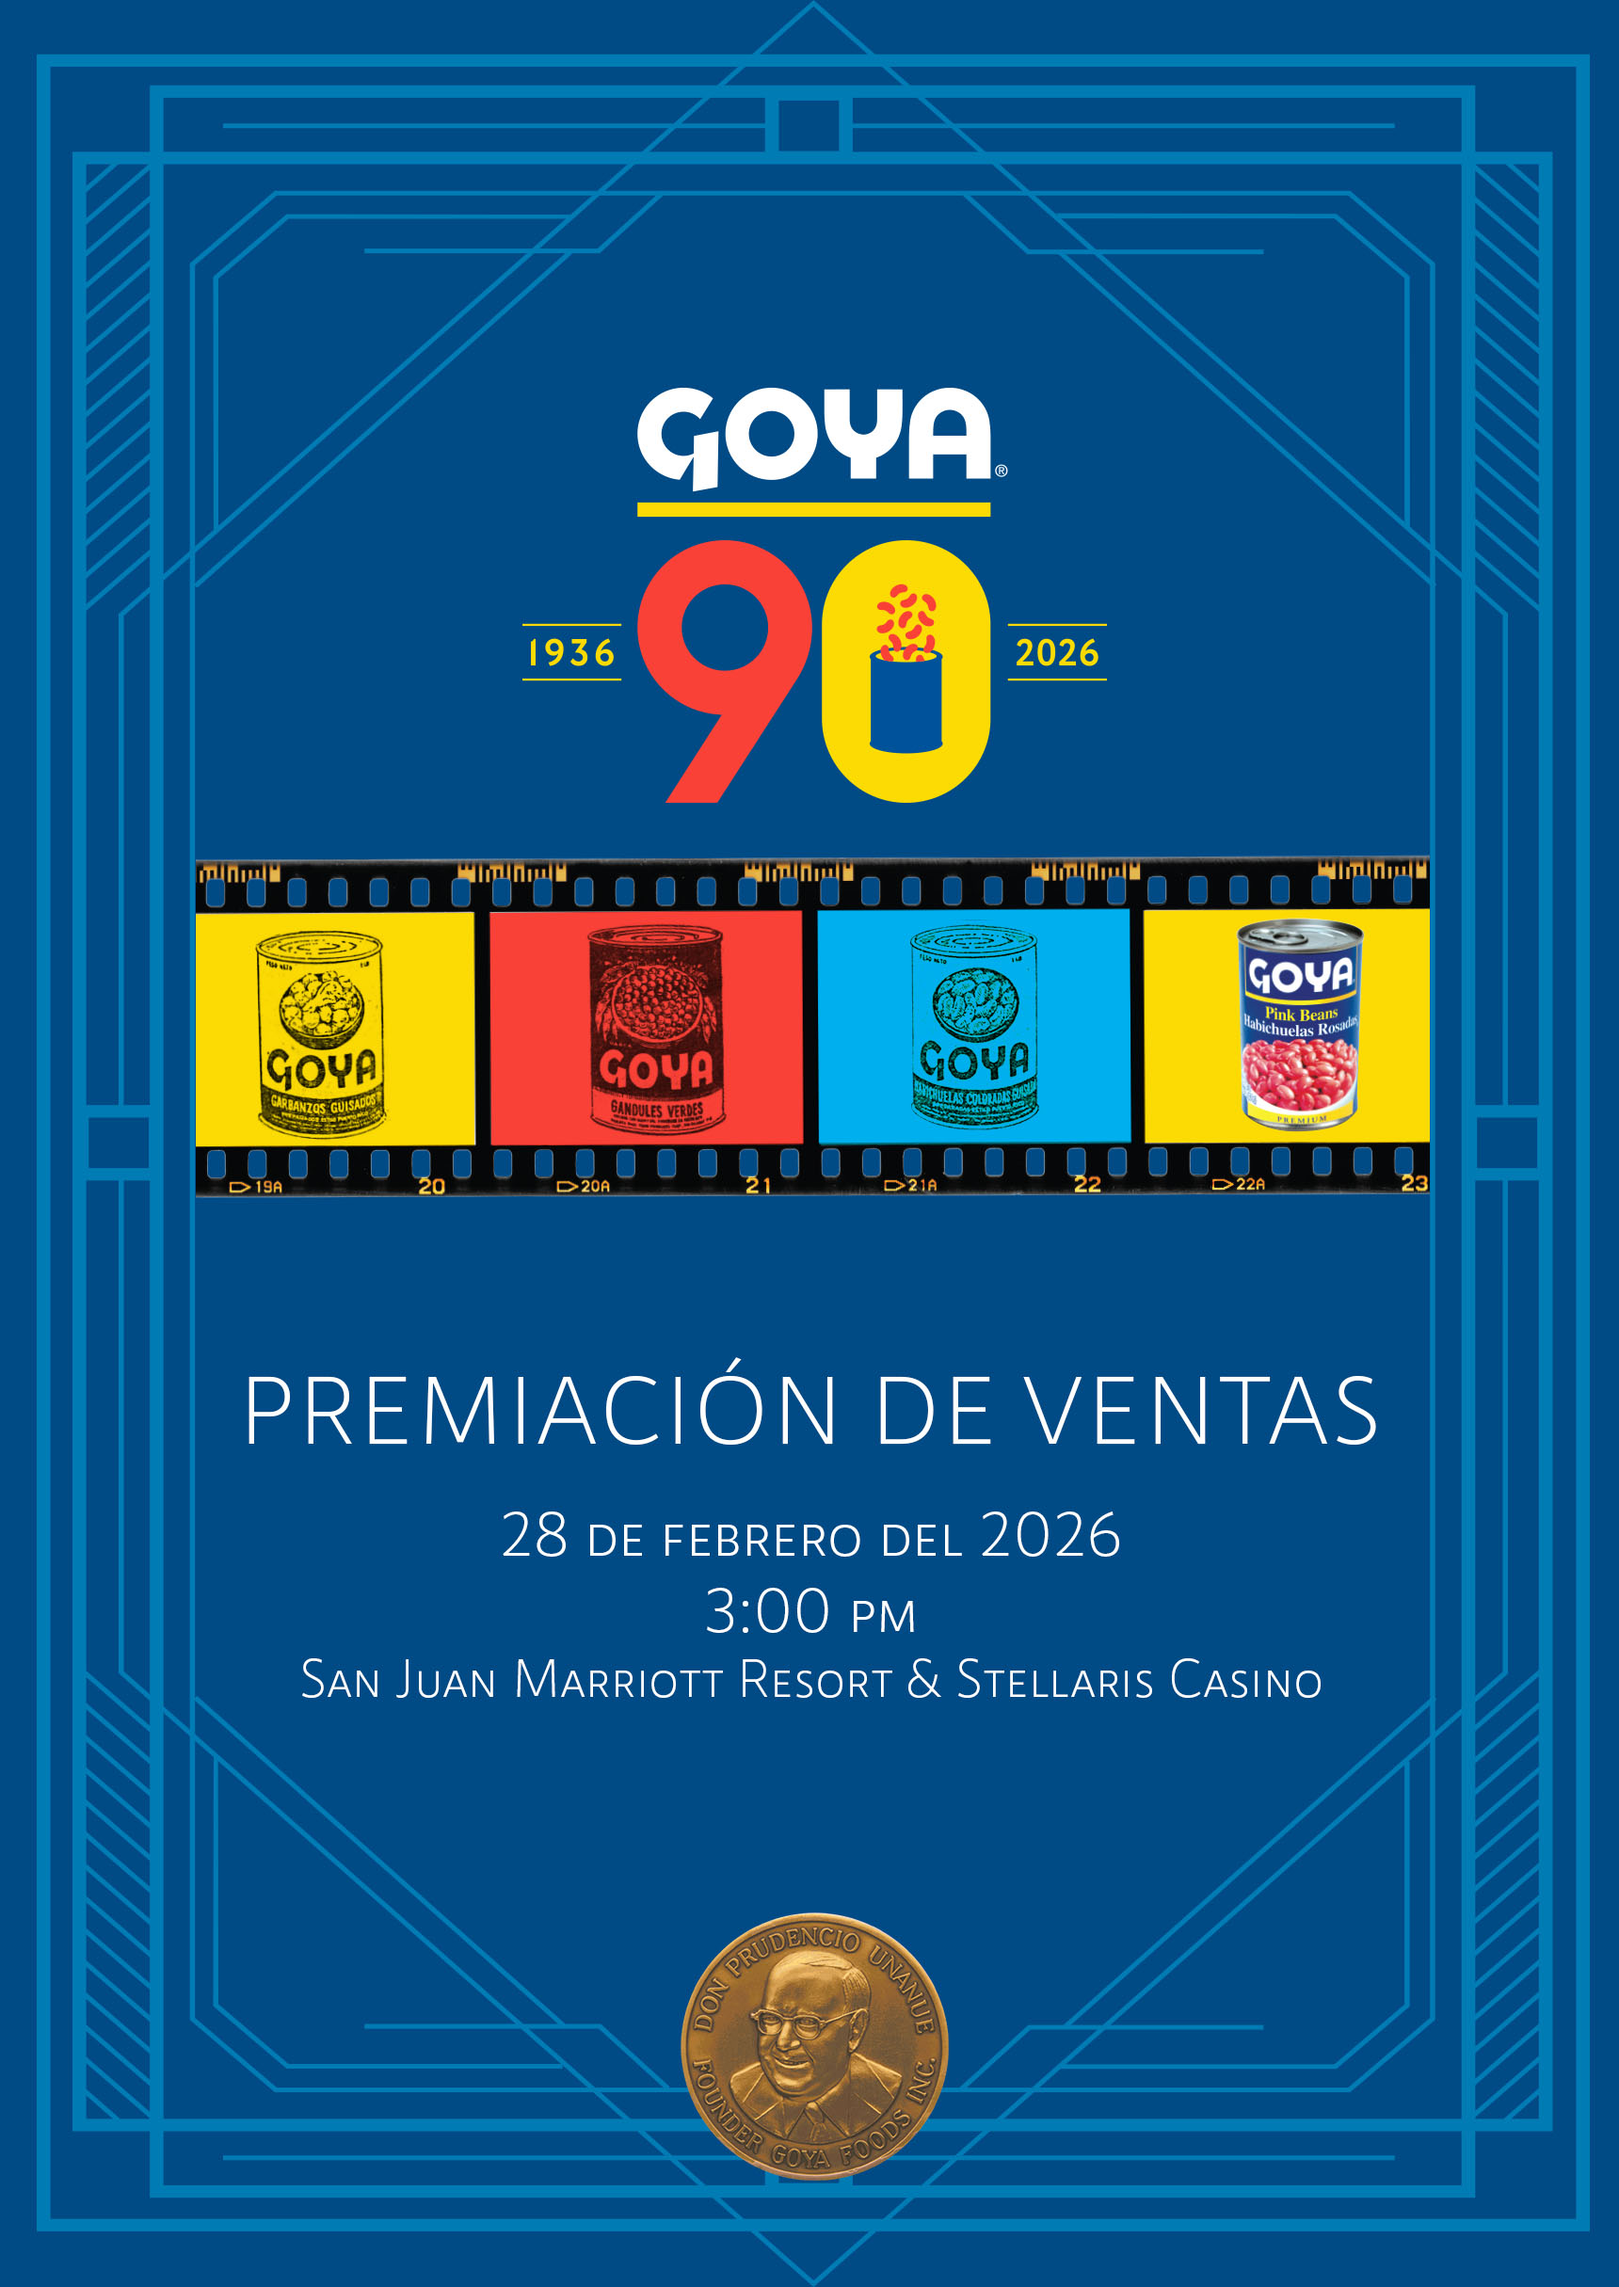
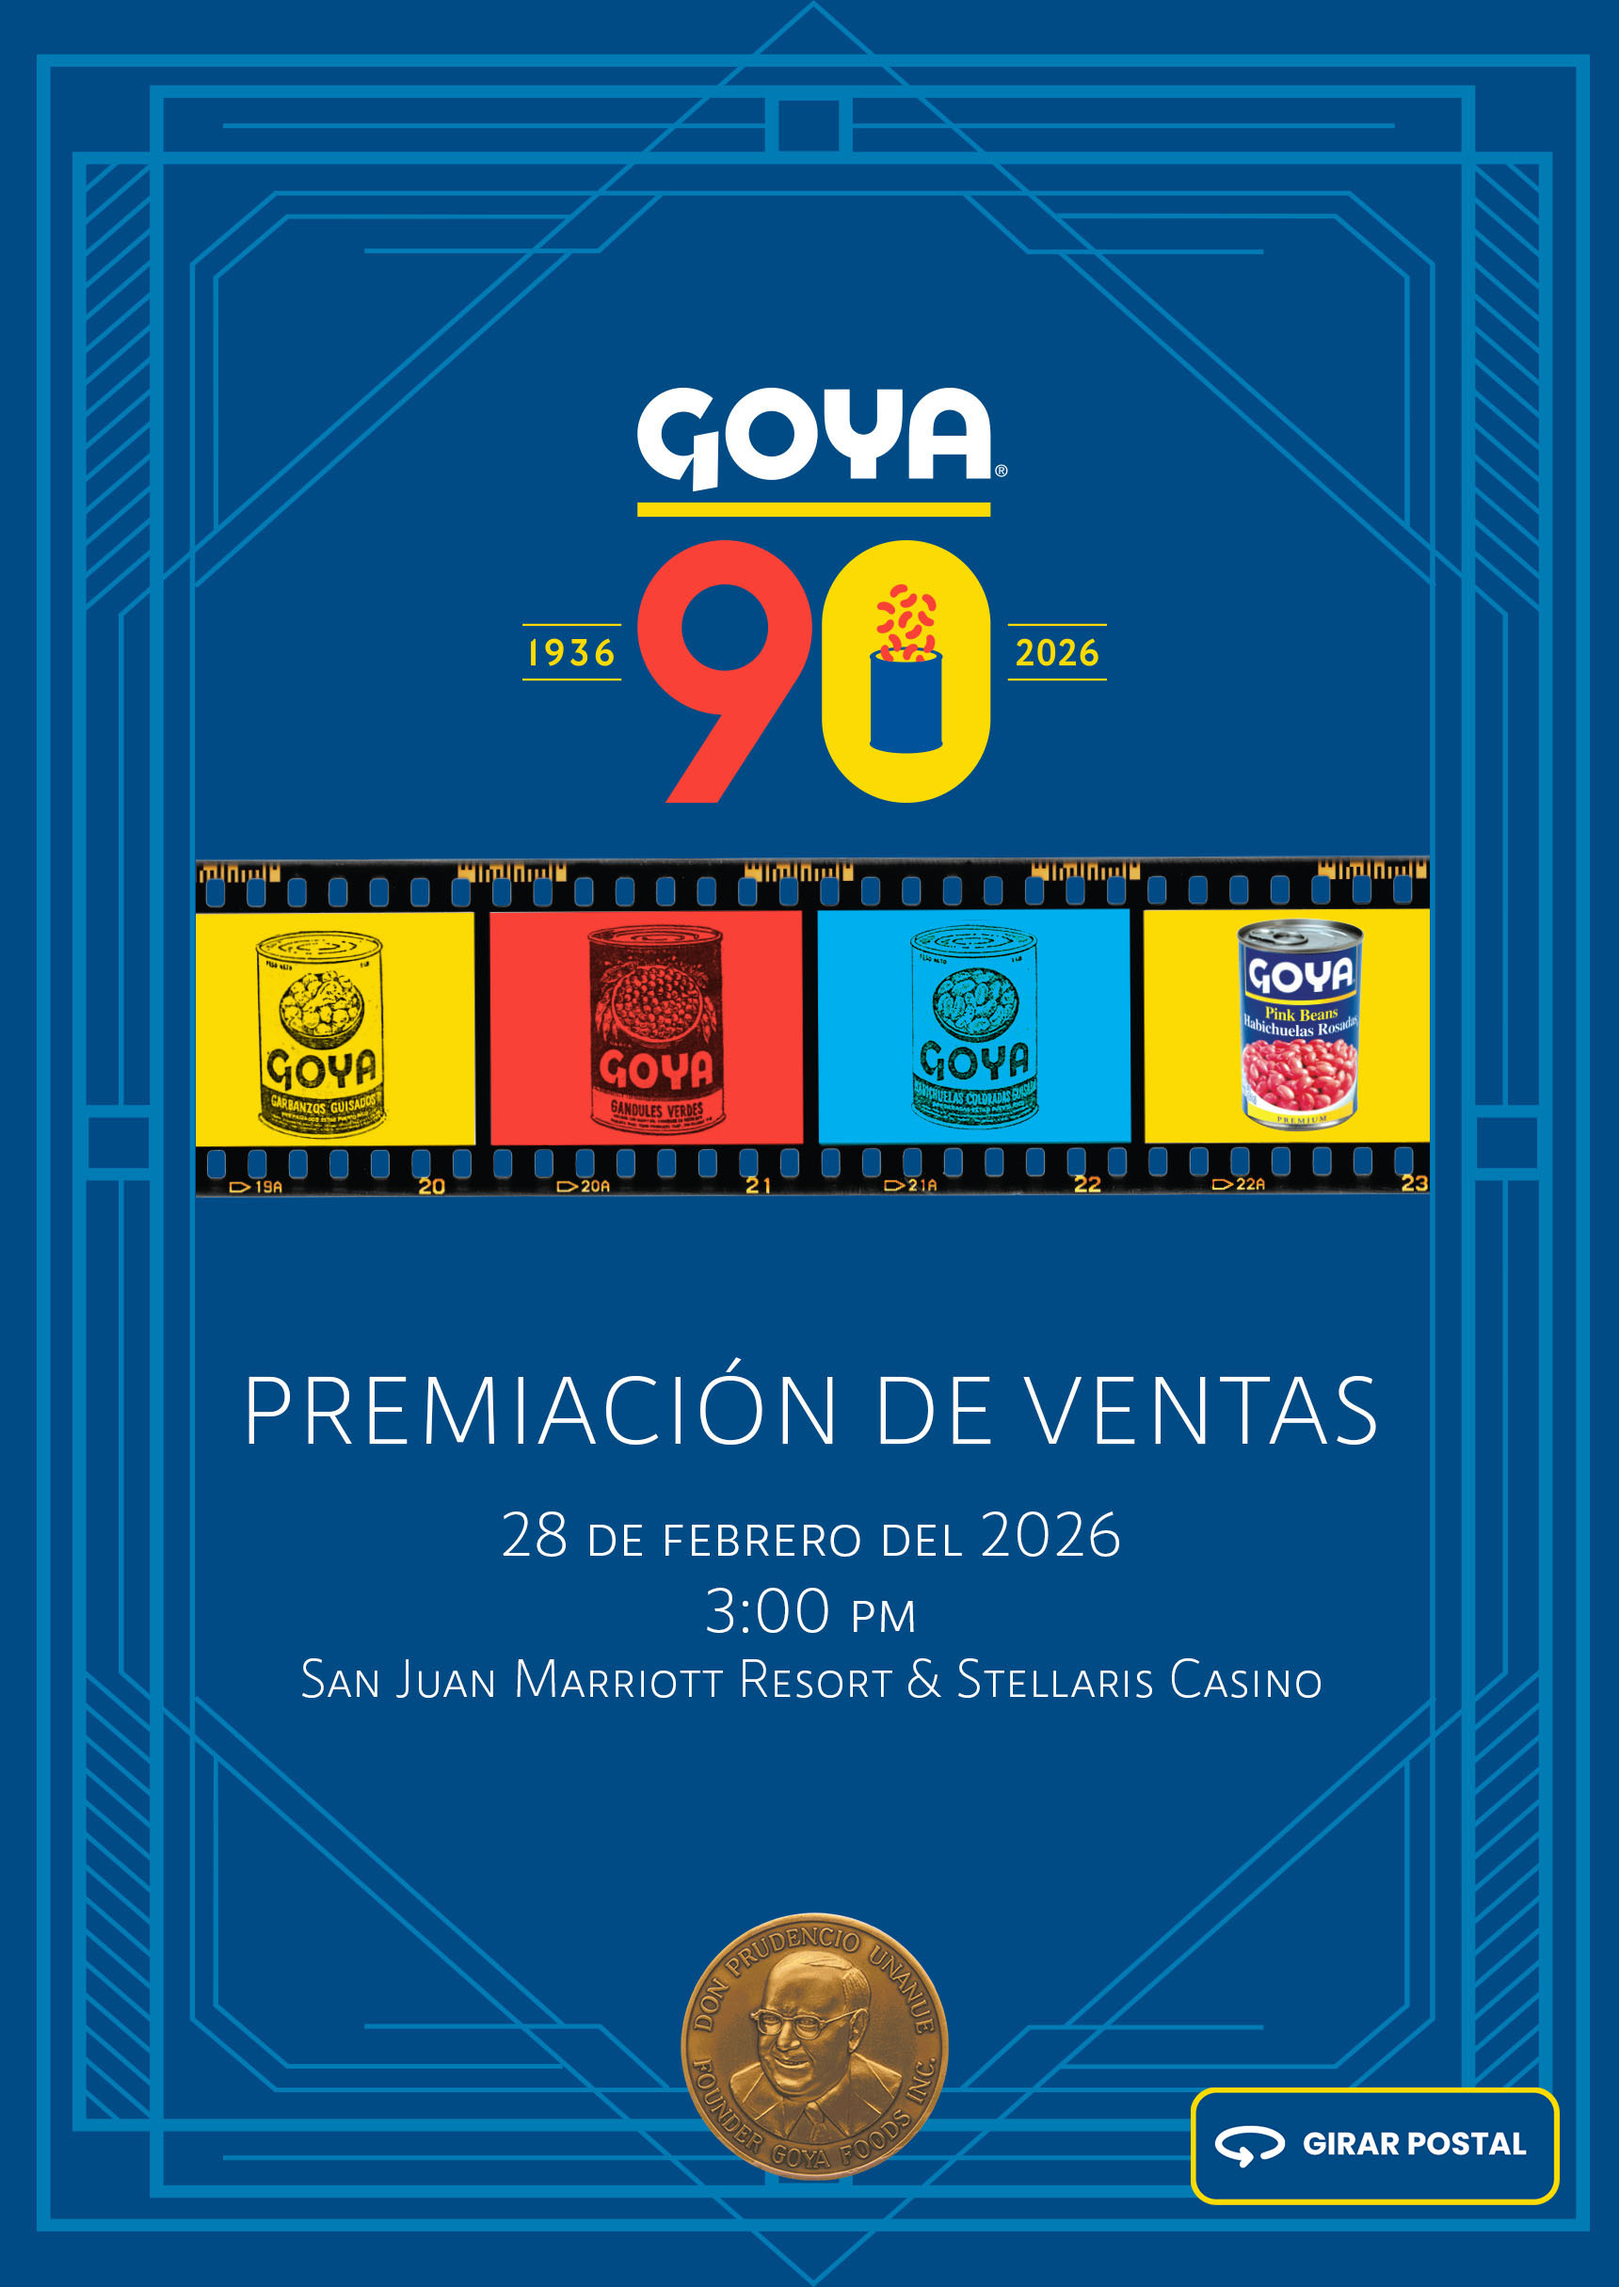
Comment out girar button and add button to postcard

Changed region(s): [[0.7087, 0.8951, 0.986, 0.9877]]

diff --git a/index.html b/index.html
@@ -1106,7 +1106,7 @@ body {
       <gwd-image source="assets/slim-back.jpg" scaling="stretch" class="gwd-image-i4ns gwd-grp-2vf8" data-gwd-grp-id="slim-back"></gwd-image>
       <gwd-image source="assets/slim-front.jpg" scaling="stretch" class="gwd-image-xfgf gwd-grp-2vf8" style="backface-visibility: hidden;" data-gwd-grp-id="slim-front_1"></gwd-image>
     </div>
-          <gwd-image id="Button-Girar" source="assets/Button-Girar.png" scaling="stretch" class="gwd-image-1f9d gwd-gen-1d2ugwdanimation"></gwd-image>
+          <!-- <gwd-image id="Button-Girar" source="assets/Button-Girar.png" scaling="stretch" class="gwd-image-1f9d gwd-gen-1d2ugwdanimation"></gwd-image> -->
         </div>
       </gwd-page>
       <gwd-page id="page1_1" class="gwd-page-wrapper gwd-page-size gwd-lightbox gwd-page-1wqj gwd-page-1nse" data-gwd-width="100%" data-gwd-height="100%" data-gwd-name="Back">
@@ -1115,7 +1115,7 @@ body {
       <gwd-image source="assets/slim-back.jpg" scaling="stretch" class="gwd-image-i4ns gwd-grp-2vf8" data-gwd-grp-id="slim-back"></gwd-image>
       <gwd-image source="assets/slim-front.jpg" scaling="stretch" class="gwd-image-xfgf gwd-grp-2vf8" style="backface-visibility: hidden;" data-gwd-grp-id="slim-front_1"></gwd-image>
     </div>
-          <gwd-image id="Button-Girar_1" source="assets/Button-Girar.png" scaling="stretch" class="gwd-gen-106hgwdanimation gwd-image-1ytc"></gwd-image>
+          <!-- <gwd-image id="Button-Girar_1" source="assets/Button-Girar.png" scaling="stretch" class="gwd-gen-106hgwdanimation gwd-image-1ytc"></gwd-image> -->
         </div>
       </gwd-page>
       <gwd-page id="page1_2" class="gwd-page-wrapper gwd-page-size gwd-lightbox gwd-page-1wqj gwd-page-mr6r" data-gwd-width="100%" data-gwd-height="100%" data-gwd-name="Front">
@@ -1124,7 +1124,7 @@ body {
       <gwd-image source="assets/slim-back.jpg" scaling="stretch" class="gwd-image-i4ns gwd-grp-2vf8" data-gwd-grp-id="slim-back"></gwd-image>
       <gwd-image source="assets/slim-front.jpg" scaling="stretch" class="gwd-image-xfgf gwd-grp-2vf8" style="backface-visibility: hidden;" data-gwd-grp-id="slim-front_1"></gwd-image>
     </div>
-          <gwd-image id="Button-Girar_2" source="assets/Button-Girar.png" scaling="stretch" class="gwd-image-1xlu gwd-gen-xdnagwdanimation"></gwd-image>
+          <!-- <gwd-image id="Button-Girar_2" source="assets/Button-Girar.png" scaling="stretch" class="gwd-image-1xlu gwd-gen-xdnagwdanimation"></gwd-image> -->
         </div>
       </gwd-page>
     </gwd-pagedeck>
